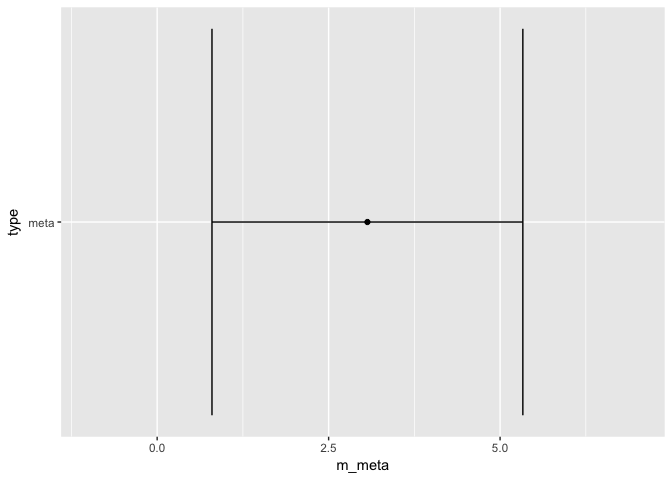
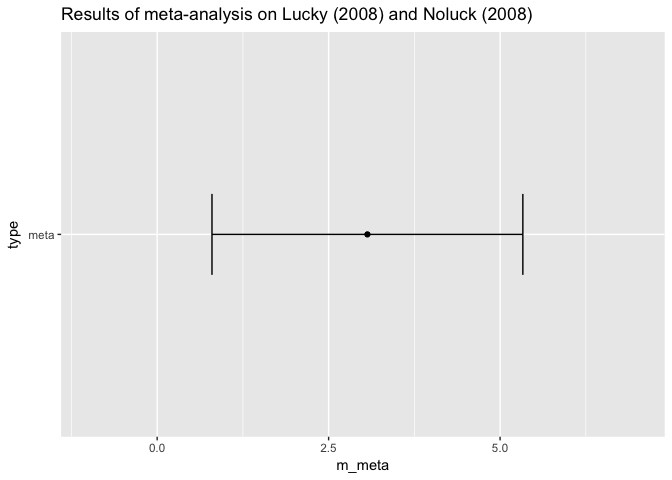
Tweak whisker height. Fix Cumming link

Changed region(s): [[0.0938, 0.0, 1.0, 0.0938], [0.3125, 0.4375, 0.7812, 0.5], [0.0, 0.4375, 0.0938, 0.5312]]

diff --git a/p-lt-005.md b/p-lt-005.md
@@ -1,7 +1,7 @@
 p-lt-005
 ================
 Rick Gilmore & Brad Wyble
-8/27/2017
+2017-08-29 11:10:30
 
 Readings
 --------
@@ -379,7 +379,7 @@ brackets(
 
 ![](p-lt-005_files/figure-markdown_github-ascii_identifiers/benjamin-et-al-2017-figure-2-1.png)
 
-### Figure 1.1 from \[Cummings 2012\[(<https://thenewstatistics.com/itns/>)\]
+### Figure 1.1 from [Cummings 2012](https://thenewstatistics.com/itns/)
 
 ``` r
 n_lucky = 22
@@ -438,12 +438,12 @@ library(tidyverse)
 df %>% ggplot() +
   aes(m_diff, study) +
   geom_point() +
-  geom_errorbarh(aes(xmax = right_ci, xmin = left_ci))
+  geom_errorbarh(aes(xmax = right_ci, xmin = left_ci), height=.2)
 ```
 
 ![](p-lt-005_files/figure-markdown_github-ascii_identifiers/cummings-fig-1.1-1.png)
 
-### Figure 1.2 from \[Cummings 2012\[(<https://thenewstatistics.com/itns/>)\]
+### Figure 1.2 from [Cummings 2012](https://thenewstatistics.com/itns/)
 
 ``` r
 # Equations from Cummings pp. 211
@@ -474,7 +474,8 @@ df_meta = data.frame(m_meta = m_meta, type = "meta", right_ci = m_meta_right, le
 df_meta %>% ggplot() +
   aes(m_meta, type) +
   geom_point() +
-  geom_errorbarh(aes(xmax = right_ci, xmin = left_ci)) +
+  geom_errorbarh(aes(xmax = right_ci, xmin = left_ci), height=.2) +
+  ggtitle("Results of meta-analysis on Lucky (2008) and Noluck (2008)") +
   xlim(-1,7)
 ```
 
